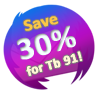
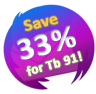
5.7 Release

Changed region(s): [[0.3438, 0.3617, 0.5625, 0.5957]]

diff --git a/release-notes.html b/release-notes.html
@@ -7,6 +7,18 @@
 
 <b>Improvements</b>
 <ul>
+<li> <a target="_blank" href="https://github.com/RealRaven2000/QuickFolders/issues/166">[issue 114]</a> Make QuickFolders compatible with Thunderbird 91. (ESR 2021/22)
+This is the list of issues found and fixed so far:
+<ol>
+<li> Fixed the missing (and badly styled) [Buy License] button at the bottom of the options dialog. This is done by loading a separate style sheet link element into the shadow DOM.</li>
+<li> Fixed: showing the debug settings (and other advanced settings) via a small window that filters "about:config" stopped working in Tb91. </li> 
+<li> Fixed: missing icons on sliding notification bars </li>
+<li> Removed deprecated fixIterator constructs </li>
+<li> <a target="_blank" href="https://github.com/RealRaven2000/QuickFolders/issues/189">[issue 189]</a> Fixed: No longer able to move a message by dropping it on a quick folder tab. The function copyMessages was renamed in Tb91</li>
+<li> <a target="_blank" href="https://github.com/RealRaven2000/QuickFolders/issues/190">[issue 190]</a> Fixed dragging the envelope from current folder toolbar (Navigation bar)
+</li>
+</ol>
+</li>
 <li><a target="_blank" href="https://github.com/RealRaven2000/QuickFolders/issues/187">[issue 187]</a> Implement a QuickFolders Standard License. There will be now 2 licenses Pro and Standard, and the unfunded version will have a few restrictions. Most importantly, no more than 10 tabs are supported without any license. This is necessary in order to fund ongoing and future work so that the Add-on won't be lost to all users when Thunderbird moves away from experimental APIs. Standard Features will be <a target="_blank" href="https://quickfolders.org/premium.html#stdfeat">listed here.</a></li>
 <li> <a target="_blank" href="https://github.com/RealRaven2000/QuickFolders/issues/184">[issue 184]</a> Update Notice - [What's New] button is badly visible when using different QF theme than flat style.</li>
 <li> Ongoing work of Rewriting code to use APIs instead of Thunderbird's internal functions see <a target="_blank" href="https://github.com/RealRaven2000/QuickFolders/issues/147">[issue 147]</a> for up to date detail.</li>
@@ -14,7 +26,6 @@
 
 <b>Bug Fixes + Miscellaneus</b>
 <ul>
-<li> <a target="_blank" href="https://github.com/RealRaven2000/QuickFolders/issues/166">[issue 114]</a> Make QuickFolders compatible with Thunderbird 91. (ESR 2021/22)</li>
 <li> <a target="_blank" href="https://github.com/RealRaven2000/QuickFolders/issues/166">[issue 166]</a> 3rd party themes - Current folder toolbar colors are incorrect until Refresh visible tabs command</li>
 <li> <a target="_blank" href="https://github.com/RealRaven2000/QuickFolders/issues/186">[issue 186]</a> Theming make some items in options screens hard / impossible to see 
 - improved visibility of dropdowns in options screen when using dark (and third party) themes</li>

diff --git a/popup/popup.js b/popup/popup.js
@@ -98,15 +98,14 @@ async function updateActions(addonName) {
         regBtn.innerText = messenger.i18n.getMessage("qf.notification.premium.btn.upgrade");
       }
     }
-  }  
-  else {
-    if (isSale) {
-      show('specialOffer');
-      hideSelectorItems('.donations');
-      hide('whyPurchase');
-      isActionList = false;
-    }
-  }  
+  }
+  
+  if (isSale && !isValid) { // not shown with Standard license either.
+    show('specialOffer');
+    hideSelectorItems('.donations');
+    hide('whyPurchase');
+    isActionList = false;
+  }
   if (!isActionList) {
     hide('actionBox');
   }

diff --git a/popup/update.js b/popup/update.js
@@ -137,7 +137,7 @@ addEventListener("load", async (event) => {
     let specialOffer = document.getElementById("specialOfferTxt");
     if (specialOffer) {
       let expiry = messenger.i18n.getMessage("special-offer-expiry"),
-          reduction = "30%";
+          reduction = "33%";
       // note: expiry day is set in popup.js "endSale" variable
       specialOffer.innerHTML = messenger.i18n.getMessage("special-offer-content", [expiry, reduction])
           .replace(/\{boldStart\}/g,"<b>")

diff --git a/chrome/content/quickfolders-util.js b/chrome/content/quickfolders-util.js
@@ -1288,8 +1288,12 @@ QuickFolders.Util = {
       let uType = "";
       if (QuickFolders.Util.licenseInfo.isExpired) 
         uType = "proRenew"
-      else if (util.hasValidLicense())
-        uType = "pro";
+      else if (util.hasValidLicense()) {
+        if (util.hasStandardLicense())
+          uType = "std";
+        else
+          uType = "pro";
+      }
       // make sure we can sanitize all pages for our premium users!
       if (   uType
           && URL.indexOf("user=")==-1 

diff --git a/chrome/content/skin/tb91/qf-options.css b/chrome/content/skin/tb91/qf-options.css
@@ -11,7 +11,6 @@ menulist > menupopup {
   background-color: var(--box-background-color) !important;
 	--panel-background: unset;
 }
-}
 
 menulist menupopup menu,
 menulist menupopup menuitem {
